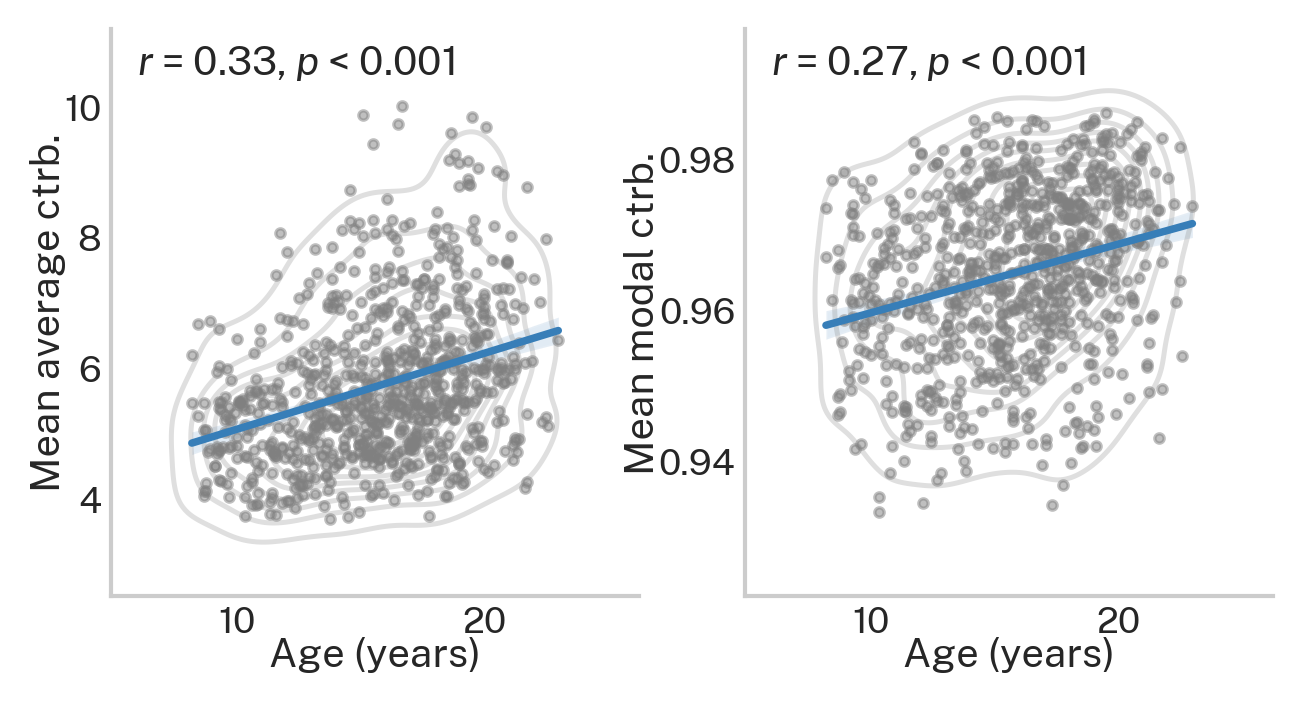
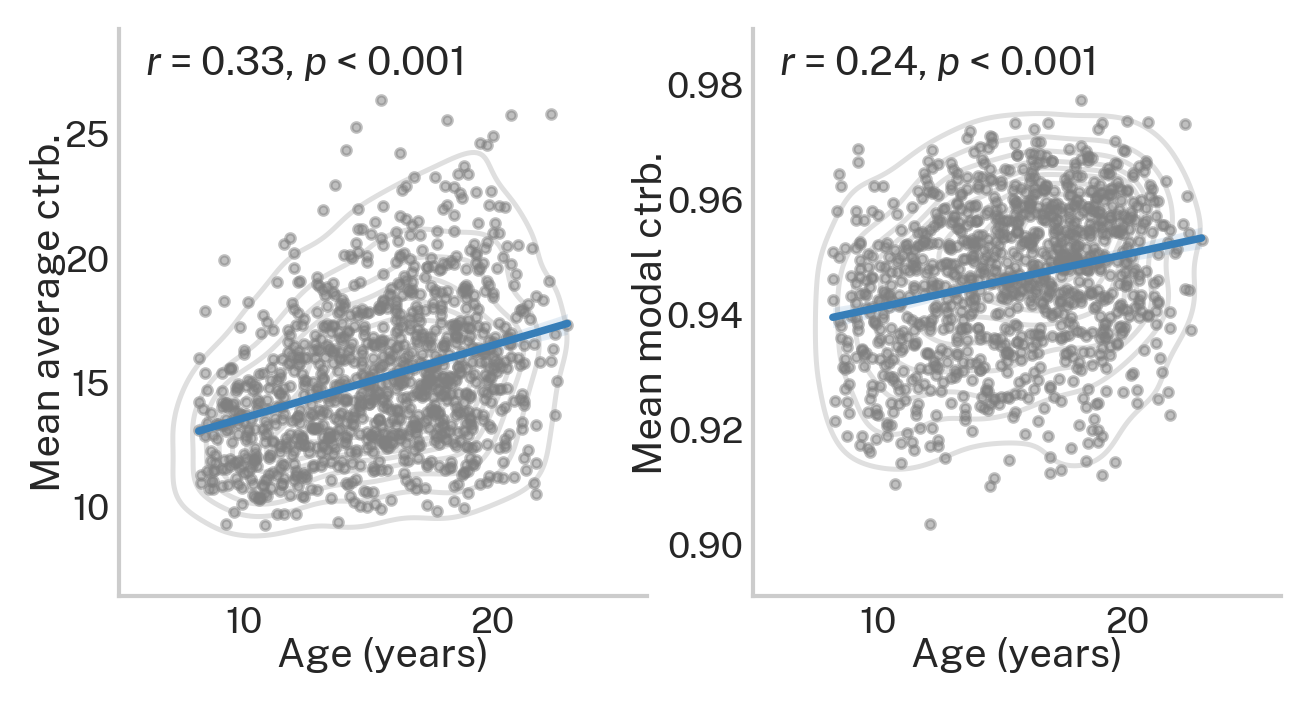
minor updates

diff --git a/docs/pages/examples/age_effects_metrics.rst b/docs/pages/examples/age_effects_metrics.rst
@@ -9,8 +9,8 @@ Effect of development on average and modal controllability
     Relevant publication: `Tang et al. 2017 Nature Communications <https://www.nature.com/articles/s41467-017-01254-4.pdf>`_
 
 In this example, we illustrate how average and modal controllability vary as a function of age in a developing sample.
-The data used here are structural connectomes taken from the Philadelphia Neurodevelopment Cohort (Satterthwaite) estimated
-using deterministic tractography.
+The data used here are structural connectomes taken from the
+`Philadelphia Neurodevelopment Cohort <https://www.sciencedirect.com/science/article/pii/S1053811913008331?via%3Dihub>`_.
 
 Here, our python workspace contains subject-specific structural connectomes stored in ``A``, a ``numpy.array``
 with nodes along dimensions 0/1 and subjects along dimension 3.
@@ -19,11 +19,10 @@ with nodes along dimensions 0/1 and subjects along dimension 3.
 
     print(A.shape)
 
-
 .. code-block:: none
 
     Out:
-    (400, 400, 100)
+    (200, 200, 1068)
 
 We also have demographic data stored in ``df``, a ``pandas.dataframe`` with subjects along dimension 0.
 Let's take a peek at age, which is stored in months.
@@ -32,16 +31,14 @@ Let's take a peek at age, which is stored in months.
 
     print(df['ageAtScan1'].head())
 
-Out:
-
 .. code-block:: none
 
-    subjid
-    81287_2738    240
-    81754_2740    232
-    81903_2749    231
-    81043_2750    249
-    81939_2751    234
+    Out:
+    0    240
+    1    253
+    2    232
+    3    231
+    4    249
     Name: ageAtScan1, dtype: int64
 
 With these data, we'll start by calculating average and modal controllability for each subject.
@@ -51,8 +48,8 @@ With these data, we'll start by calculating average and modal controllability fo
     from network_control.metrics import ave_control, modal_control
     from network_control.utils rank_int, matrix_normalization
 
-    n_nodes = A.shape[0] # number of nodes (400)
-    n_subs = A.shape[2] # number of subjects (775)
+    n_nodes = A.shape[0] # number of nodes (200)
+    n_subs = A.shape[2] # number of subjects (1068)
 
     # output containers for average and modal controllability
     ac = np.zeros((n_subs, n_nodes))
@@ -86,4 +83,4 @@ Lastly we'll plot the linear relationship between age and each metric
 
 The above shows that whole-brain average and modal controllability both increase throughout development (between the ages
 of 10 and 20 years). This is consistent Tang et al. 2017
-(`see Fig 2c <https://www.nature.com/articles/s41467-017-01254-4.pdf>`_) for average controllability.
+(`see Figure 2c <https://www.nature.com/articles/s41467-017-01254-4.pdf>`_) for average controllability.
